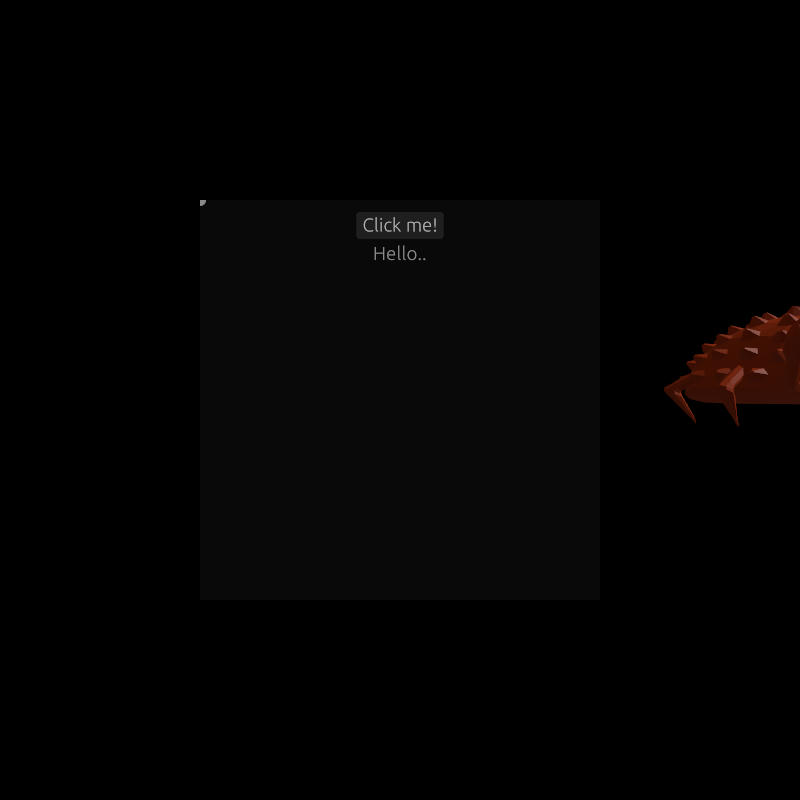
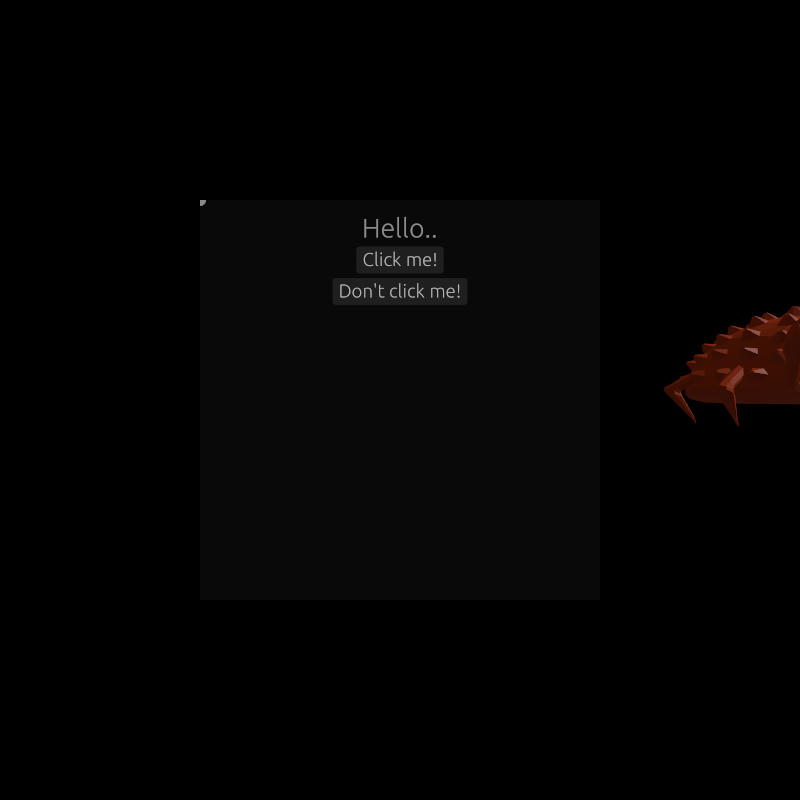
Tweak panels

Changed region(s): [[0.4062, 0.25, 0.5938, 0.375]]

diff --git a/hotham/src/systems/draw_gui.rs b/hotham/src/systems/draw_gui.rs
@@ -115,7 +115,7 @@ mod tests {
         assert!(!button_was_clicked(&mut world));
 
         // Release the trigger slightly
-        change_panel_trigger_value(&mut world, &mut query);
+        release_trigger(&mut world, &mut query);
         schedule(
             &mut query,
             &mut world,
@@ -161,6 +161,97 @@ mod tests {
         }
     }
 
+    fn schedule(
+        query: &mut PreparedQuery<&mut Panel>,
+        world: &mut World,
+        gui_context: &mut GuiContext,
+        haptic_context: &mut HapticContext,
+        render_context: &mut RenderContext,
+        vulkan_context: &VulkanContext,
+    ) -> () {
+        println!("[DRAW_GUI_TEST] Running schedule..");
+        begin_frame(render_context, vulkan_context);
+
+        // Reset the haptic context each frame - do this instead of having to create an OpenXR context etc.
+        haptic_context.right_hand_amplitude_this_frame = 0.;
+
+        // Draw the GUI
+        draw_gui_system(
+            query,
+            world,
+            vulkan_context,
+            &0,
+            render_context,
+            gui_context,
+            haptic_context,
+        );
+
+        // Begin the PBR Render Pass
+        render_context.begin_pbr_render_pass(vulkan_context, 0);
+
+        // Update transforms, etc.
+        update_transform_matrix_system(&mut Default::default(), world);
+
+        // Update parent transform matrix
+        update_parent_transform_matrix_system(
+            &mut Default::default(),
+            &mut Default::default(),
+            world,
+        );
+
+        // Render
+        rendering_system(
+            &mut Default::default(),
+            world,
+            vulkan_context,
+            0,
+            render_context,
+        );
+
+        // End PBR render
+        render_context.end_pbr_render_pass(vulkan_context, 0);
+        render_context.end_frame(vulkan_context, 0);
+    }
+
+    fn begin_frame(render_context: &mut RenderContext, vulkan_context: &VulkanContext) {
+        let rotation: mint::Quaternion<f32> = UnitQuaternion::from_euler_angles(0., 0., 0.).into();
+        let position = Vector3f {
+            x: -1.0,
+            y: 0.0,
+            z: 1.0,
+        };
+
+        let view = openxr::View {
+            pose: openxr::Posef {
+                orientation: Quaternionf::from(rotation),
+                position,
+            },
+            fov: Fovf {
+                angle_up: 45.0_f32.to_radians(),
+                angle_down: -45.0_f32.to_radians(),
+                angle_left: -45.0_f32.to_radians(),
+                angle_right: 45.0_f32.to_radians(),
+            },
+        };
+        let views = vec![view.clone(), view];
+
+        render_context.begin_frame(&vulkan_context, 0);
+
+        render_context
+            .update_scene_data(&views, &vulkan_context)
+            .unwrap();
+        render_context
+            .scene_params_buffer
+            .update(
+                &vulkan_context,
+                &[SceneParams {
+                    // debug_view_inputs: 1.,
+                    ..Default::default()
+                }],
+            )
+            .unwrap();
+    }
+
     fn button_was_clicked(world: &mut World) -> bool {
         let panel = world
             .query_mut::<&mut Panel>()
@@ -171,10 +262,10 @@ mod tests {
         return panel.buttons[0].clicked_this_frame;
     }
 
-    fn change_panel_trigger_value(world: &mut World, query: &mut PreparedQuery<&mut Panel>) {
+    fn release_trigger(world: &mut World, query: &mut PreparedQuery<&mut Panel>) {
         let panel = query.query_mut(world).into_iter().next().unwrap().1;
         panel.input = Some(PanelInput {
-            cursor_location: Pos2::new(0.5 * (800. / SCALE_FACTOR), 0.05 * (800. / SCALE_FACTOR)),
+            cursor_location: Pos2::new(0.5 * (800. / SCALE_FACTOR), 0.15 * (800. / SCALE_FACTOR)),
             trigger_value: 0.2,
         });
     }
@@ -271,7 +362,10 @@ mod tests {
             "Hello..",
             800,
             800,
-            vec![PanelButton::new("Click me!")],
+            vec![
+                PanelButton::new("Click me!"),
+                PanelButton::new("Don't click me!"),
+            ],
             [-1.0, 0., 0.].into(),
             &vulkan_context,
             &render_context,
@@ -280,7 +374,7 @@ mod tests {
             &mut world,
         );
         world.get_mut::<Panel>(panel).unwrap().input = Some(PanelInput {
-            cursor_location: Pos2::new(0.5 * (800. / SCALE_FACTOR), 0.05 * (800. / SCALE_FACTOR)),
+            cursor_location: Pos2::new(0.5 * (800. / SCALE_FACTOR), 0.15 * (800. / SCALE_FACTOR)),
             trigger_value: 1.,
         });
 
@@ -294,96 +388,5 @@ mod tests {
             haptic_context,
             gui_context,
         )
-    }
-
-    fn schedule(
-        query: &mut PreparedQuery<&mut Panel>,
-        world: &mut World,
-        gui_context: &mut GuiContext,
-        haptic_context: &mut HapticContext,
-        render_context: &mut RenderContext,
-        vulkan_context: &VulkanContext,
-    ) -> () {
-        println!("[DRAW_GUI_TEST] Running schedule..");
-        begin_frame(render_context, vulkan_context);
-
-        // Reset the haptic context each frame - do this instead of having to create an OpenXR context etc.
-        haptic_context.right_hand_amplitude_this_frame = 0.;
-
-        // Draw the GUI
-        draw_gui_system(
-            query,
-            world,
-            vulkan_context,
-            &0,
-            render_context,
-            gui_context,
-            haptic_context,
-        );
-
-        // Begin the PBR Render Pass
-        render_context.begin_pbr_render_pass(vulkan_context, 0);
-
-        // Update transforms, etc.
-        update_transform_matrix_system(&mut Default::default(), world);
-
-        // Update parent transform matrix
-        update_parent_transform_matrix_system(
-            &mut Default::default(),
-            &mut Default::default(),
-            world,
-        );
-
-        // Render
-        rendering_system(
-            &mut Default::default(),
-            world,
-            vulkan_context,
-            0,
-            render_context,
-        );
-
-        // End PBR render
-        render_context.end_pbr_render_pass(vulkan_context, 0);
-        render_context.end_frame(vulkan_context, 0);
-    }
-
-    fn begin_frame(render_context: &mut RenderContext, vulkan_context: &VulkanContext) {
-        let rotation: mint::Quaternion<f32> = UnitQuaternion::from_euler_angles(0., 0., 0.).into();
-        let position = Vector3f {
-            x: -1.0,
-            y: 0.0,
-            z: 1.0,
-        };
-
-        let view = openxr::View {
-            pose: openxr::Posef {
-                orientation: Quaternionf::from(rotation),
-                position,
-            },
-            fov: Fovf {
-                angle_up: 45.0_f32.to_radians(),
-                angle_down: -45.0_f32.to_radians(),
-                angle_left: -45.0_f32.to_radians(),
-                angle_right: 45.0_f32.to_radians(),
-            },
-        };
-        let views = vec![view.clone(), view];
-
-        render_context.begin_frame(&vulkan_context, 0);
-
-        render_context
-            .update_scene_data(&views, &vulkan_context)
-            .unwrap();
-        render_context
-            .scene_params_buffer
-            .update(
-                &vulkan_context,
-                &[SceneParams {
-                    // debug_view_inputs: 1.,
-                    ..Default::default()
-                }],
-            )
-            .unwrap();
     }
 }

diff --git a/examples/beat-saber-clone/src/systems/game.rs b/examples/beat-saber-clone/src/systems/game.rs
@@ -73,7 +73,7 @@ fn transition(
                 .unwrap();
 
             // Remove visibility
-            let _ = world.remove_one::<Visible>(game_context.score_panel);
+            // let _ = world.remove_one::<Visible>(game_context.score_panel);
             let _ = world.remove_one::<Visible>(game_context.blue_saber);
             let _ = world.remove_one::<Visible>(game_context.red_saber);
 
@@ -86,7 +86,7 @@ fn transition(
                 .get_mut::<Panel>(game_context.main_menu_panel)
                 .unwrap();
 
-            panel.text = "Main Menu".to_string();
+            panel.text = "CRAB SABER".to_string();
             panel.buttons = game_context
                 .songs
                 .iter()

diff --git a/hotham/src/resources/gui_context.rs b/hotham/src/resources/gui_context.rs
@@ -282,6 +282,8 @@ impl GuiContext {
         // GUI Layout
         egui::CentralPanel::default().show(&egui_context, |ui| {
             ui.with_layout(inner_layout, |ui| {
+                ui.heading(&text);
+
                 for button in &mut updated_buttons {
                     let response = ui.button(&button.text);
 
@@ -293,8 +295,6 @@ impl GuiContext {
                         button.clicked_this_frame = true;
                     }
                 }
-
-                ui.label(&text);
 
                 if let Some(panel_input) = panel_input {
                     let position = ui

diff --git a/examples/beat-saber-clone/src/resources/game_context.rs b/examples/beat-saber-clone/src/resources/game_context.rs
@@ -119,7 +119,7 @@ impl GameContext {
             300,
             600,
             vec![],
-            [-2.5, 1., -2.].into(),
+            [-1.25, 1., -2.].into(),
             vulkan_context,
             render_context,
             gui_context,
